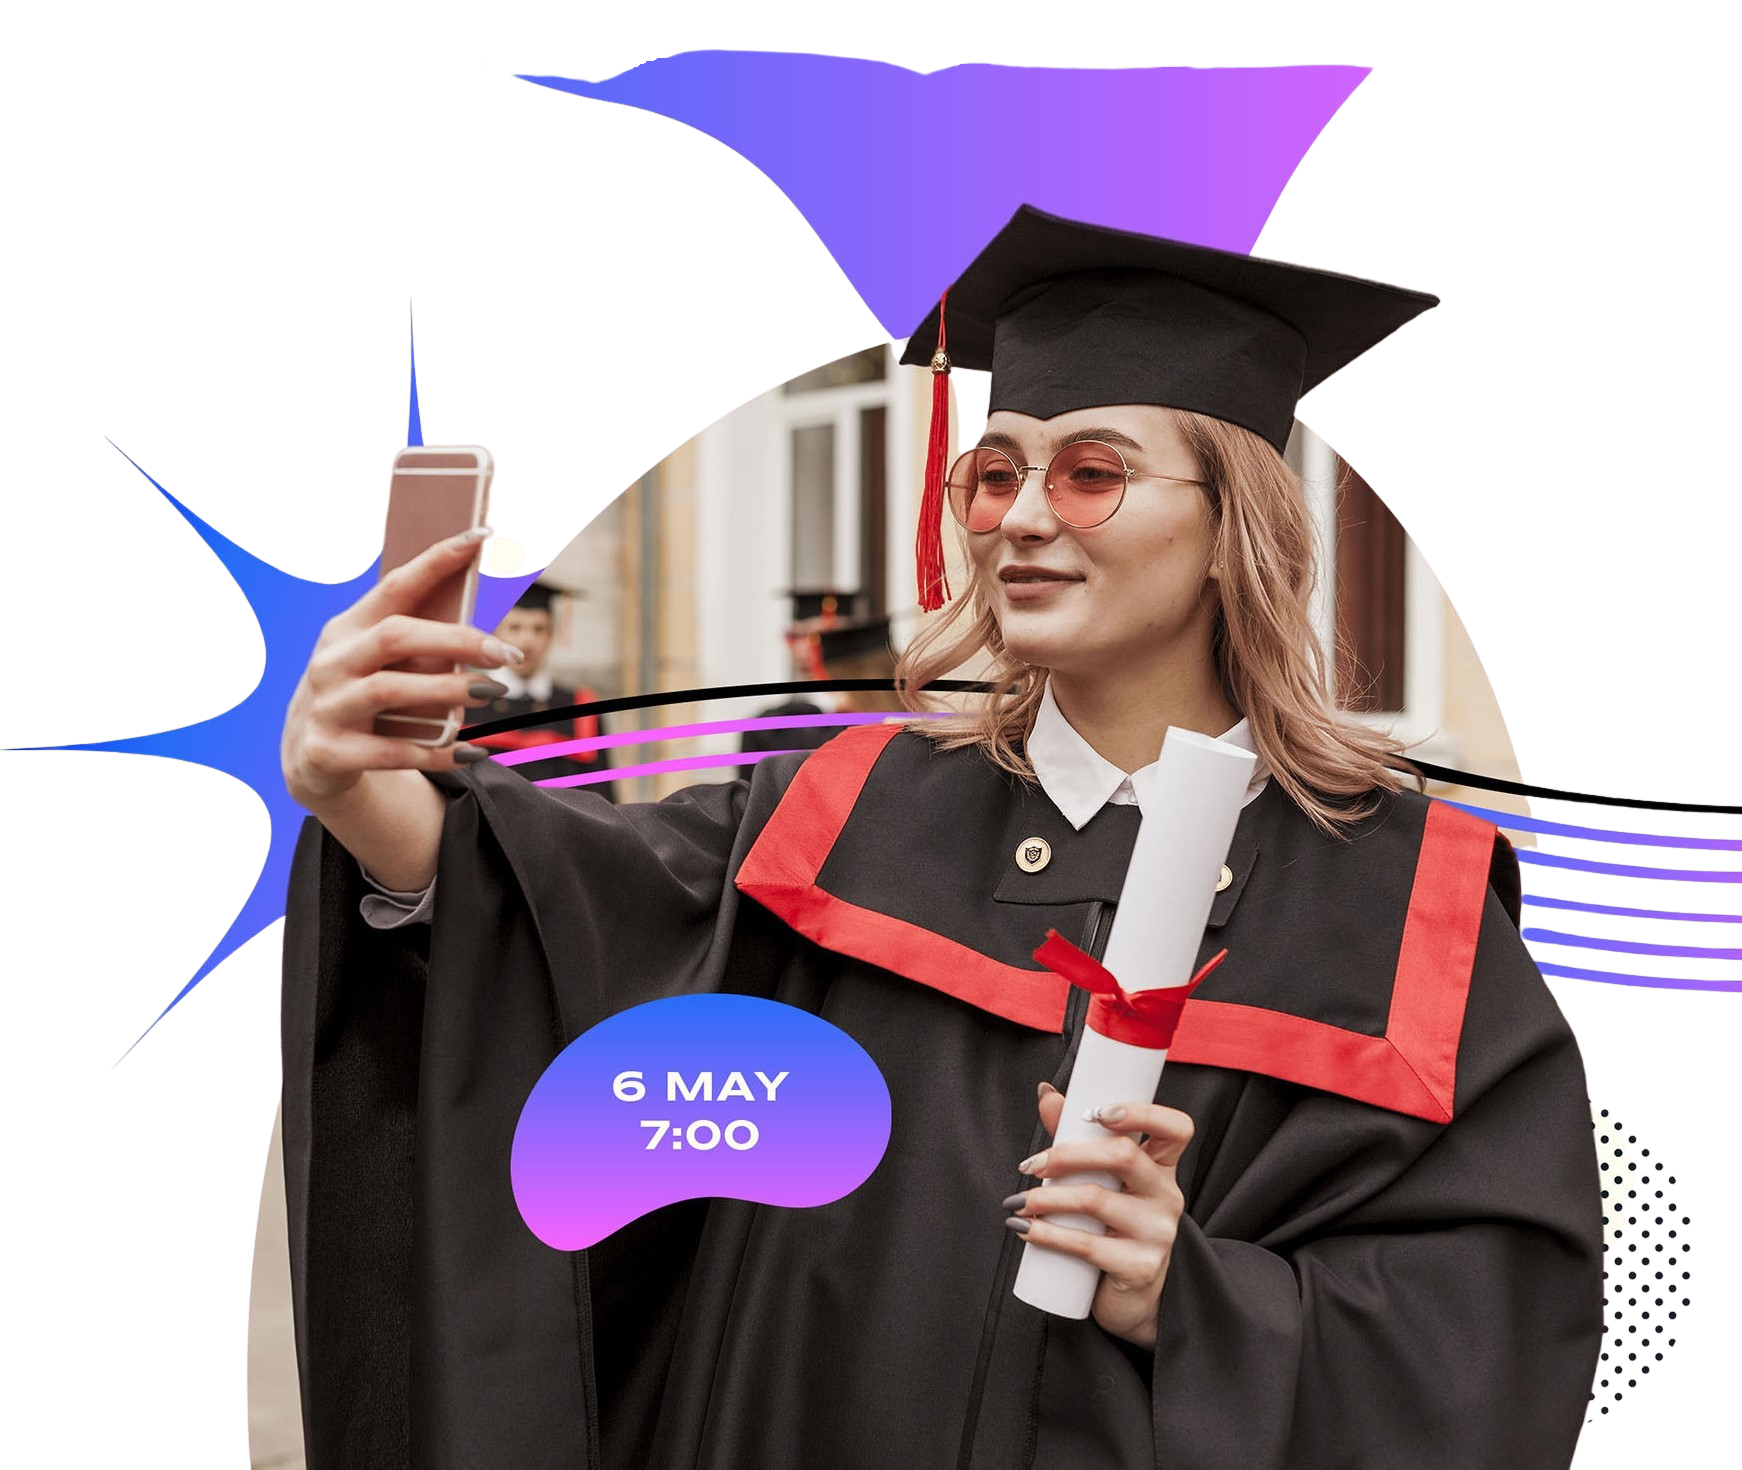
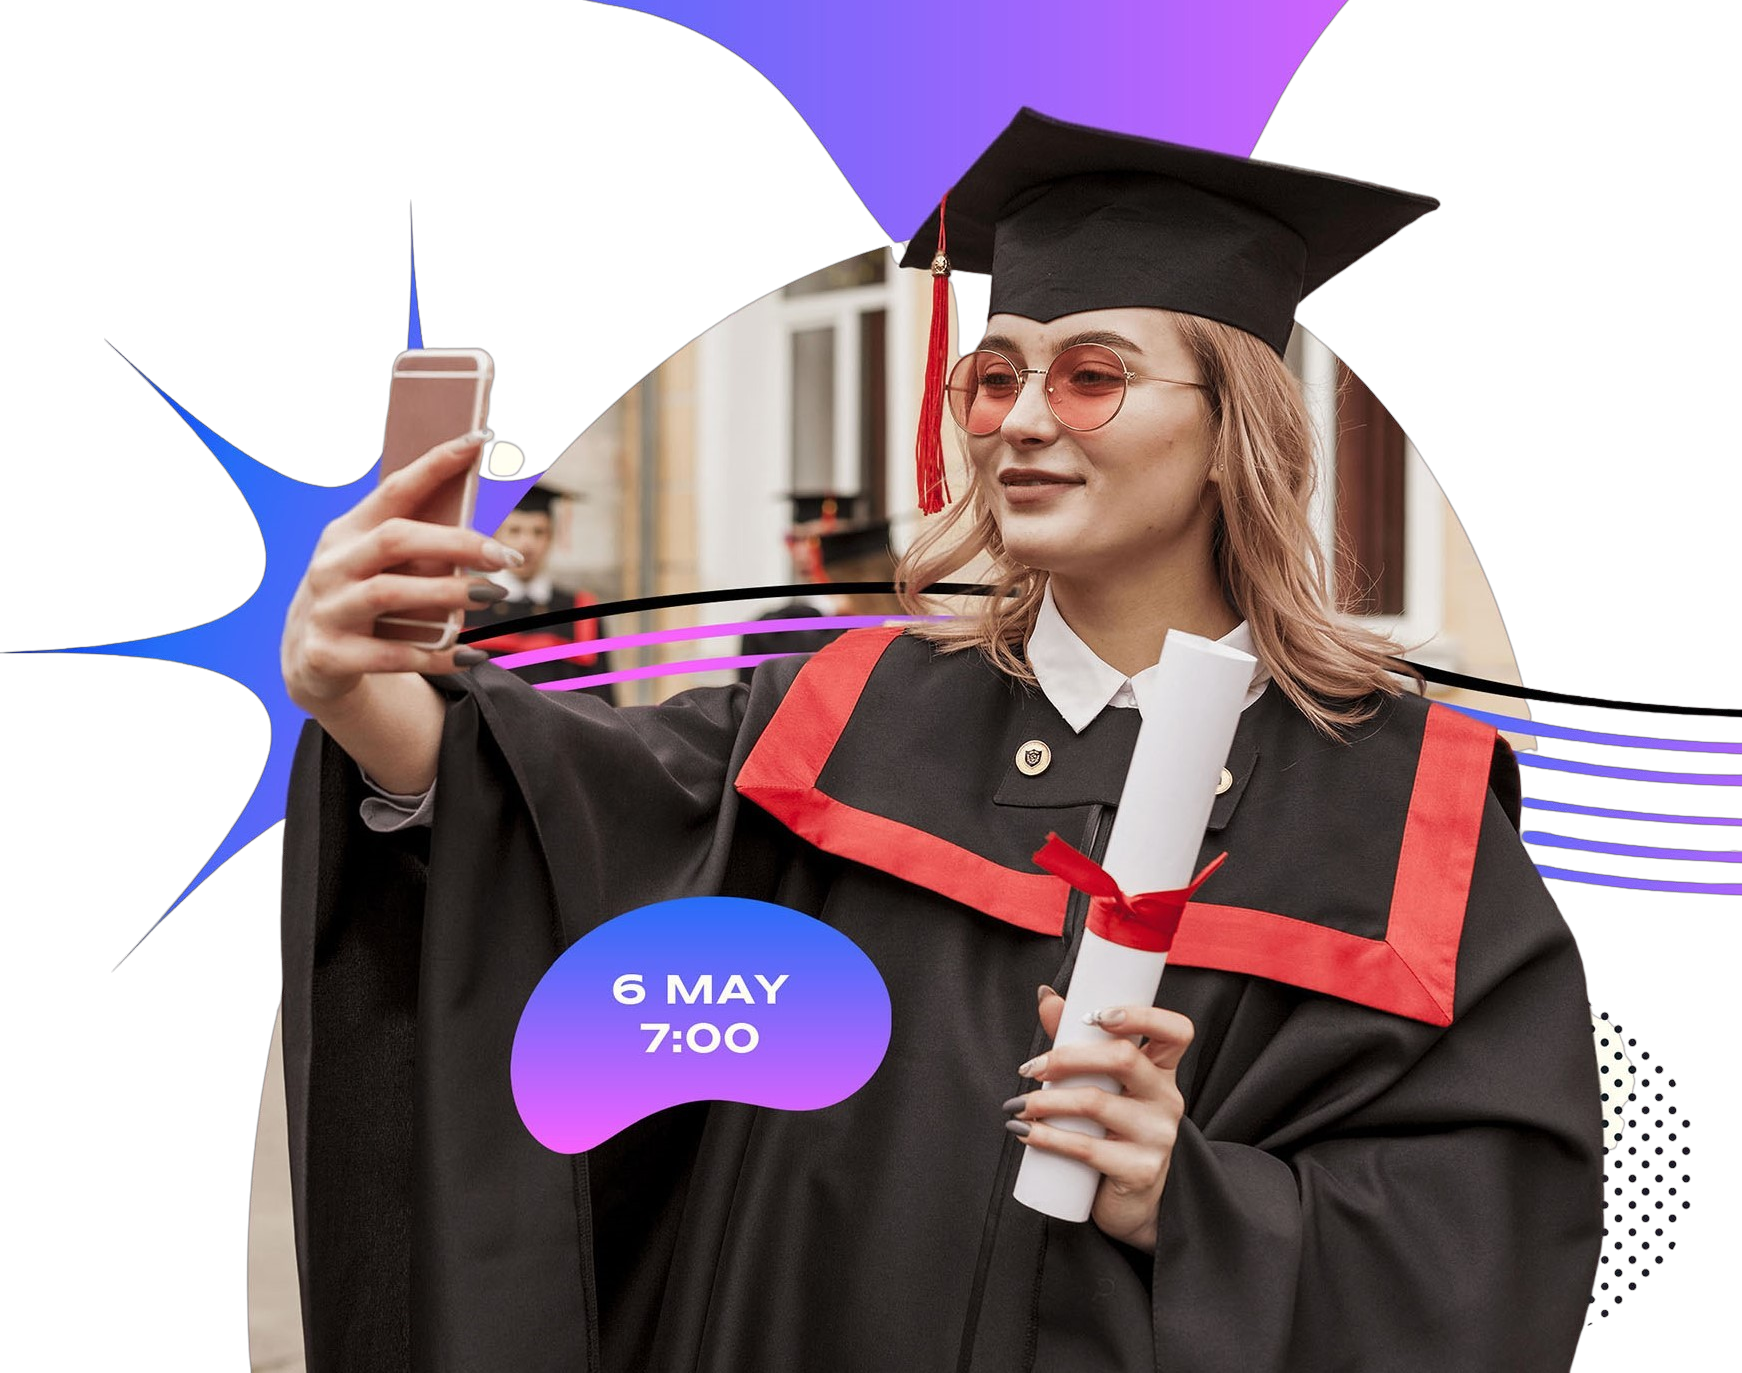
chngs

Changed region(s): [[0.031, 0.0, 1.0, 0.9789], [0.496, 0.7647, 0.527, 0.7953], [0.155, 0.7342, 0.186, 0.7647]]

diff --git a/EduBridge/frontend/src/pages/Home/home_banner.js b/EduBridge/frontend/src/pages/Home/home_banner.js
@@ -1,5 +1,6 @@
 import React from 'react';
 import { Container, Row, Col } from 'react-bootstrap';
+import bannerImage from './Home-Banner.png'; // Import your image
 import './banner.css';
 
 const home_banner = () => {
@@ -8,7 +9,7 @@ const home_banner = () => {
       <Row className="align-items-center g-0">
         <Col xs={12} md={7} className="position-relative">
           <div className="banner-content d-flex align-items-center h-100">
-            <div>
+          <div className="text-left">
               <h1 className="display-3 fw-bold text-white">
                 Welcome to EduBridge
               </h1>
@@ -18,12 +19,9 @@ const home_banner = () => {
               {/* Add any other content you want here */}
             </div>
           </div>
-          <div className="banner-image d-none d-md-block">
-            <img src={require('../assets/Home-Banner.png')} alt="Banner" />
-          </div>
         </Col>
         <Col xs={12} md={5} className="bg-light p-5 h-100 d-flex justify-content-center">
-          {/* Add any other content you want here */}
+          <img src={bannerImage} alt="Home Banner" className="img-fluid w-75" /> {/* Add your image here and make it smaller with w-75 */}
         </Col>
       </Row>
     </Container>

diff --git a/EduBridge/frontend/src/pages/Home/banner.css b/EduBridge/frontend/src/pages/Home/banner.css
@@ -1,21 +1,27 @@
 .banner-content {
-    height: 100%;
-    width: 100%;
-    display: flex;
-    justify-content: center;
-    align-items: center;
-    text-align: center;
-    padding: 0 1rem;
+  background-size: cover;
+  background-position: center;
+  height: 100vh;
+  display: flex;
+  align-items: center;
+  justify-content: center;
+  padding: 0 2rem;
+  margin-bottom: 50px;
   }
   
+  .banner-content h1,
+.banner-content p {
+  text-shadow: 2px 2px 4px rgba(0, 0, 0, 0.5);
+}
+
   .banner-image {
     position: absolute;
     top: 0;
     right: 0;
     bottom: 0;
     z-index: -1;
-    width: 50%;
-    height: 100%;
+    width: 20%;
+    height: 50%;
     overflow: hidden;
   }
   
@@ -24,6 +30,12 @@
     height: auto;
     transform: translateX(50%);
   }
+
+  .img-fluid img {
+    width: 800px !important; /* Change this value to increase or decrease the image size */
+    height: 800px !important;
+    transform: translateX(50%);
+}
   
   @media (max-width: 991.98px) {
     .banner-image {

diff --git a/EduBridge/frontend/src/pages/Home/Home.js b/EduBridge/frontend/src/pages/Home/Home.js
@@ -1,7 +1,7 @@
 import React, { useRef, useEffect } from 'react';
 import { Link } from 'react-router-dom';
 import MapChart from './MapChart';
-import banner from './banner.png';
+import HomeBanner from './home_banner';
 import './Home.css';
 import Navbar from '../../Componenets/Navbar/Navbar';
 
@@ -48,9 +48,9 @@ const Home = () => {
     <Navbar />
 
     <section id="home">
-    <div className="HomeContainer" id="home" ref={homeRef}>
+    <div className="HomeContainer" ref={homeRef}>
       <h2>Home</h2>
-      <home_banner />
+      <HomeBanner />
     </div>
     </section>
 
